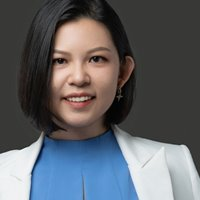
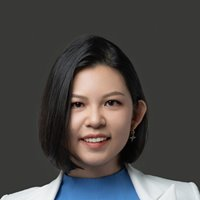
Round About photo with full head and headroom

diff --git a/assets/site.css b/assets/site.css
@@ -189,11 +189,12 @@ section { padding: 56px 0; }
 .about-grid { display: grid; grid-template-columns: 280px minmax(0, 1fr); gap: 40px; align-items: center; }
 @media (max-width: 700px) { .about-grid { grid-template-columns: minmax(0, 1fr); gap: 24px; } }
 .portrait {
-  display: block; width: 100%; max-width: 280px; height: auto; aspect-ratio: 4 / 5;
-  object-fit: cover; object-position: 50% 0%;
-  border-radius: 20px; border: 1px solid var(--border); box-shadow: var(--shadow); background: #3a3a3a;
+  display: block; width: 100%; max-width: 260px; height: auto; aspect-ratio: 1;
+  object-fit: cover; border-radius: 50%; background: #383836;
+  border: 6px solid var(--surface); box-shadow: 0 0 0 1px var(--gold-light), var(--shadow);
+  justify-self: center;
 }
-@media (max-width: 700px) { .portrait { max-width: 240px; } }
+@media (max-width: 700px) { .portrait { max-width: 200px; } }
 .headshot {
   width: 64px; height: 64px; border-radius: 50%; object-fit: cover;
   border: 2px solid var(--gold-soft); flex-shrink: 0;

diff --git a/index.html b/index.html
@@ -98,7 +98,7 @@
   <!-- ABOUT -->
   <section>
     <div class="container about-grid">
-      <img class="portrait" src="assets/kelly-portrait.jpg" alt="Kelly Chan" width="640" height="800" loading="lazy">
+      <img class="portrait" src="assets/kelly-portrait.jpg" alt="Kelly Chan" width="600" height="600" loading="lazy">
       <div>
         <p class="section-eyebrow"><span class="zh">关于我</span><span class="en">About me</span></p>
         <h2 class="section-title"><span class="zh">你好，我是 Kelly</span><span class="en">Hi, I'm Kelly</span></h2>
